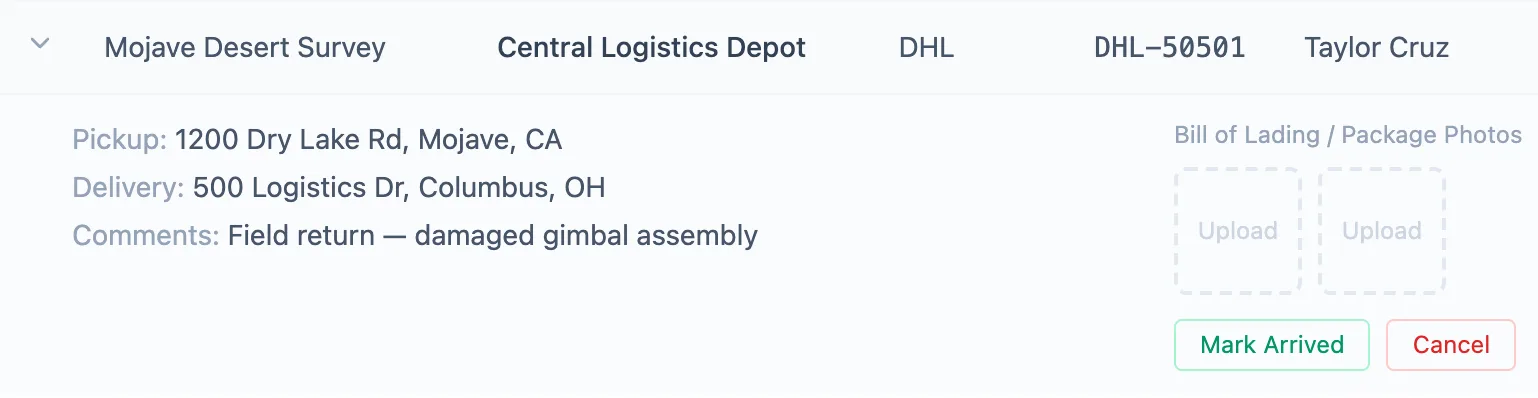
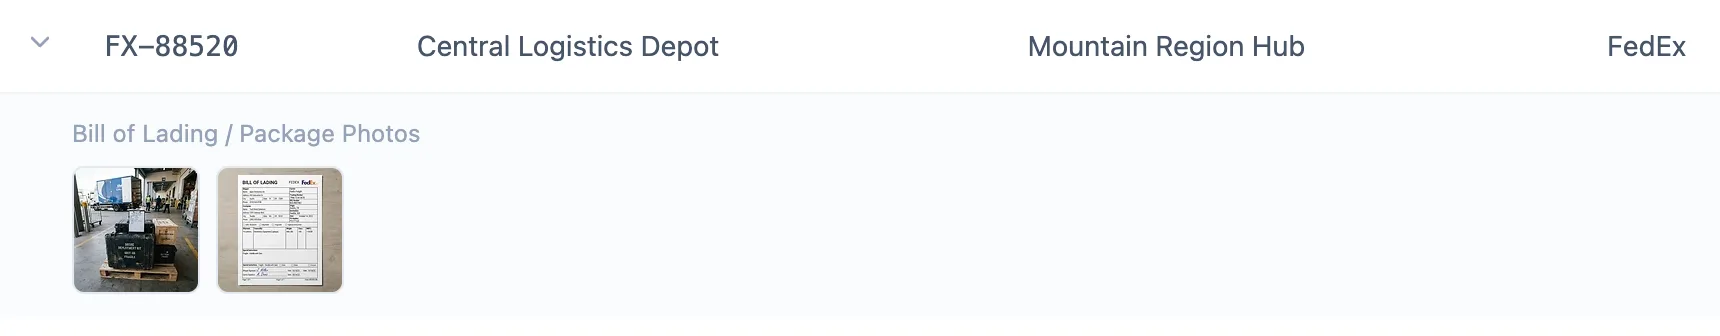
AeroPulse: show real shipment evidence in decision 3; widen decision 2 crop
- Decision 3: recaptured from /archive with FX-88520 opened (viewing only).
  Both attachments, the delivery photo and the FedEx bill of lading, are
  visible as thumbnails. FX-88520 chosen over DHL-50501 because its bill
  still reads at thumbnail size. Pin moved onto the photo's corner; alt
  text rewritten from the real images.
- Decision 2: cable inventory re-cropped from Part Number to Reorder
  Action (~870 CSS px), so it renders at about the same scale as the
  defect banner instead of twice as large. Low-stock rows and warning
  icons stay in frame; pin re-placed beside the icons; alt updated for
  the new columns.
- Media README updated for both stills.

diff --git a/src/assets/work/aeropulse/README.md b/src/assets/work/aeropulse/README.md
@@ -9,12 +9,15 @@ the components needs to change when one is replaced.
 | File | What it shows |
 |---|---|
 | `decision-1-draft-projects.webp` | `/drafts`: Central WH Avail colored by shortfall, and the Transfer From dropdown |
-| `decision-2-cable-low-stock.webp` | `/cables`: Qty on Hand, Min Threshold and Status; the warning icon sits in the low-stock rows |
+| `decision-2-cable-low-stock.webp` | `/cables`: Part Number through Reorder Action (about 870 CSS px, close to the defect banner's width so both decision 2 screens render at a similar scale); the warning icon sits in the two low-stock rows |
 | `decision-2-defect-banner.webp` | `/defects`: the red banner above the KPI cards and charts |
-| `decision-3-shipment-confirmed.webp` | `/shipments`: a shipment row opened, showing the Bill of Lading / Package Photos slots and Mark Arrived |
+| `decision-3-shipment-confirmed.webp` | `/archive`: shipment FX-88520 opened with its row arrow, showing its two attachments, the delivery photo and the bill of lading, as thumbnails (Tracking # through Carrier, about 860 CSS px) |
 
-Note on decision 3: no shipment in the demo data has a photo attached, so the still shows
-the evidence slots and the Mark Arrived action, not a populated photo.
+Note on decision 3: FX-88520 was chosen over DHL-50501 because its bill of lading (bold header,
+FedEx mark) still reads at thumbnail size. The Final Status column ("Arrived") is left out of
+the crop so the thumbnails stay legible. The attachments are generated demo images: the bill's
+own details (Austin to Seattle, laptops, 2023) do not match the shipment; only its header and
+FedEx mark are legible in the still.
 
 ## Hero recording (home card and top of the case study)
 
